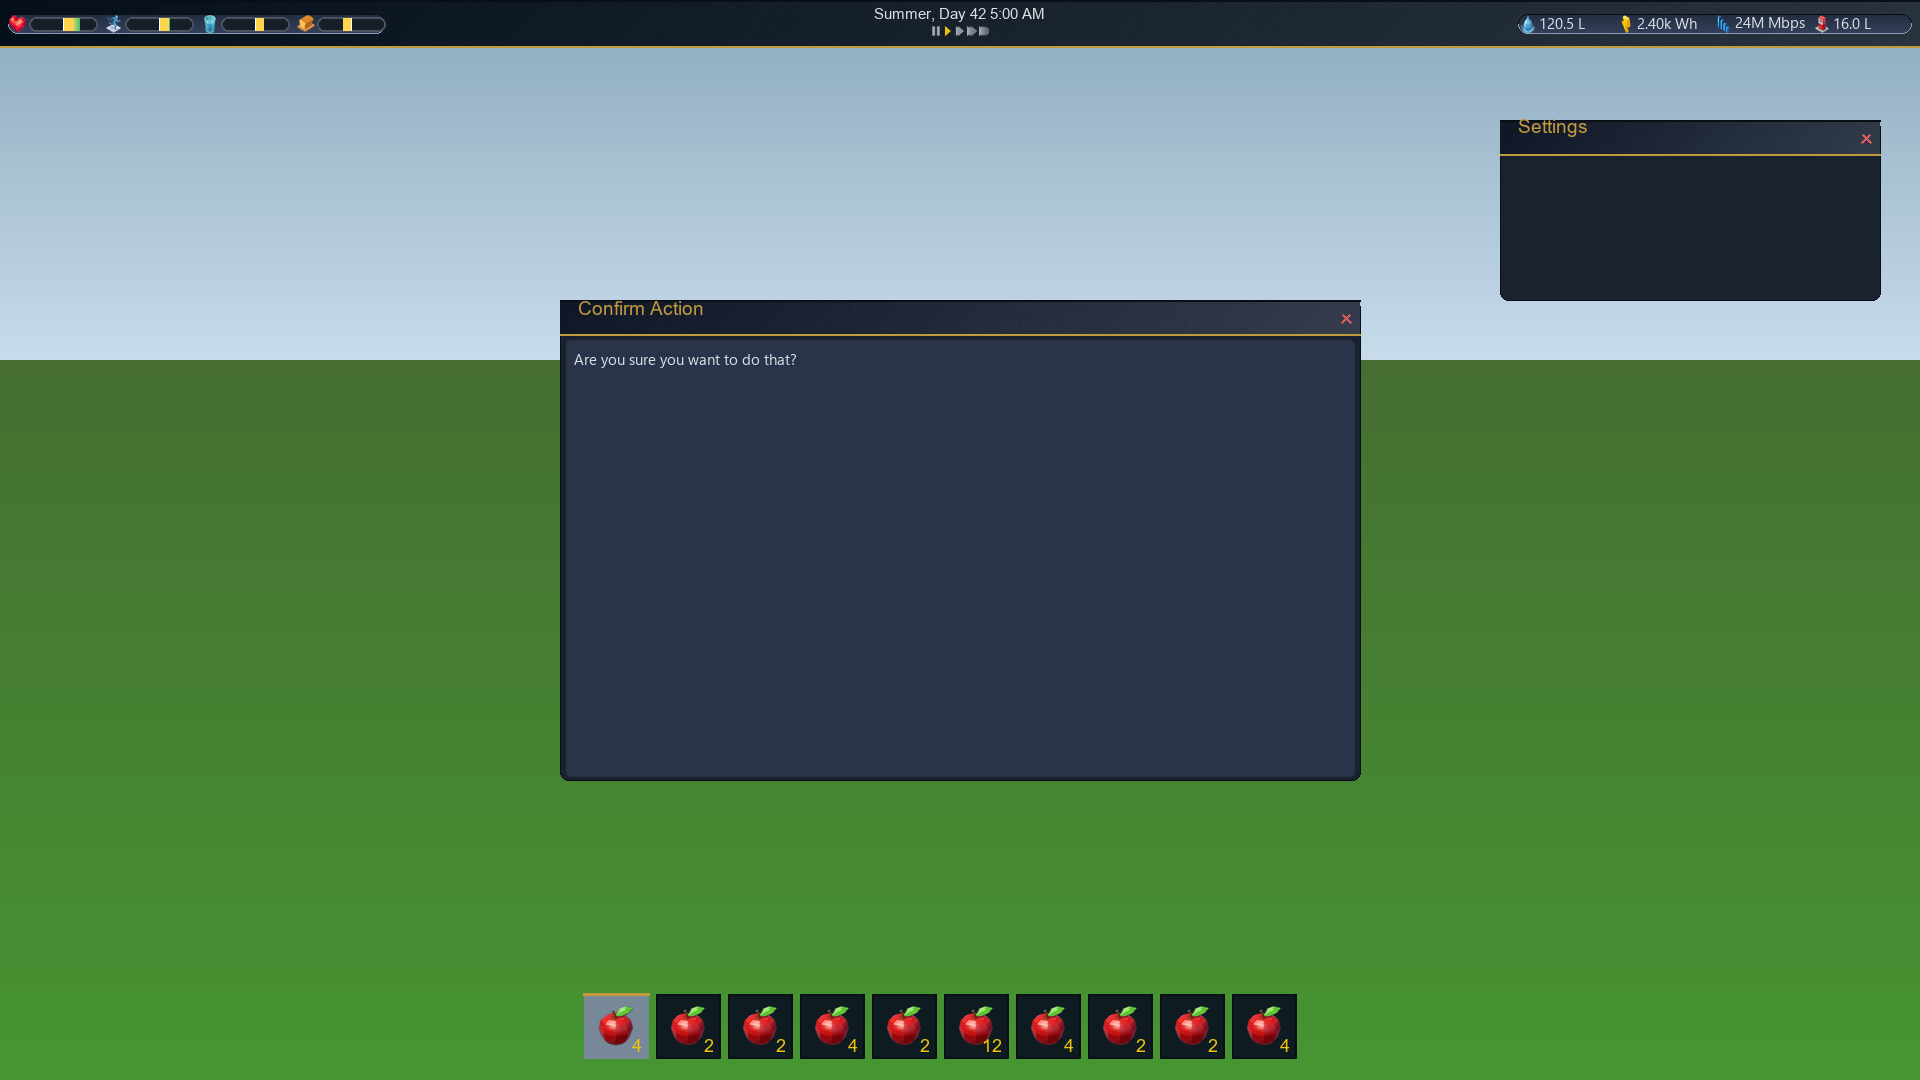
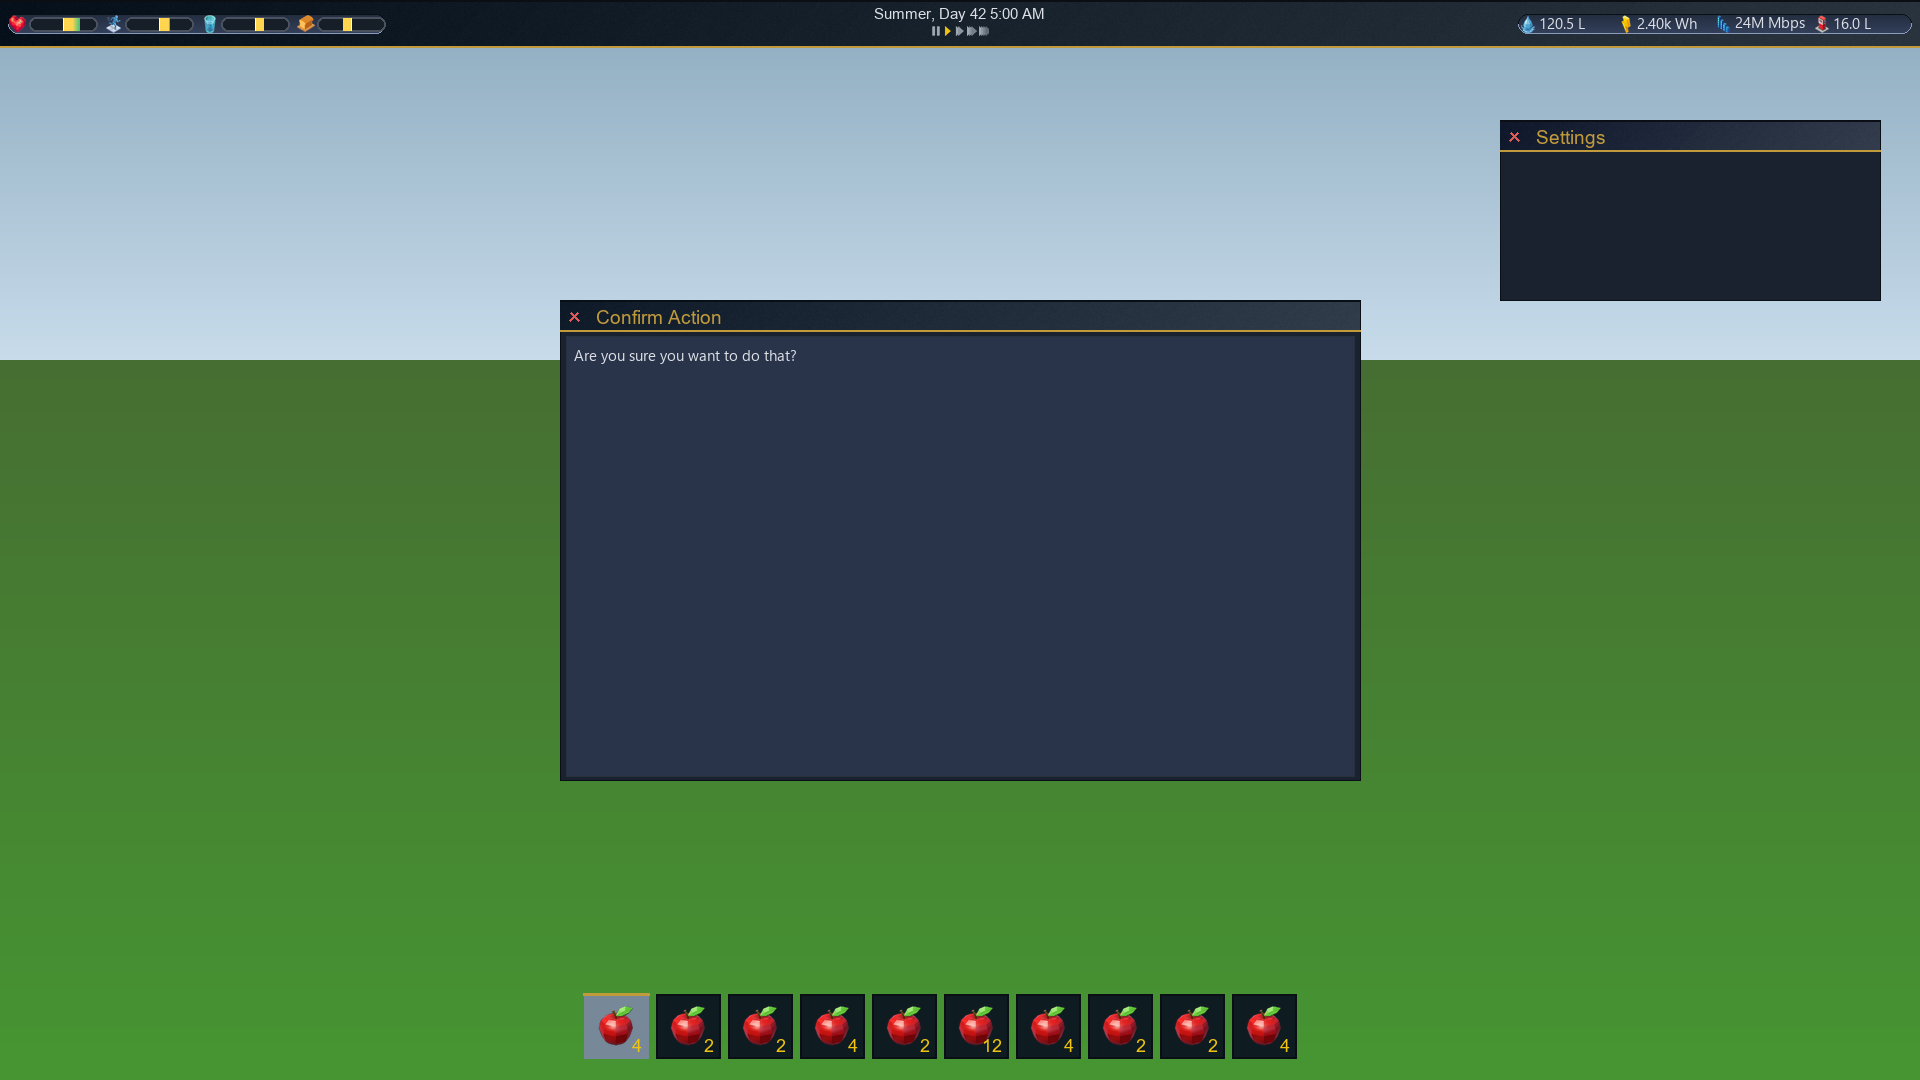
feat(hud_kit): window/modal square corners, 32px titles left-aligned past close-x

Changed region(s): [[0.2812, 0.275, 0.7188, 0.3361], [0.7812, 0.0917, 0.9688, 0.1528]]

diff --git a/assets/hud_kit/runtime/render.py b/assets/hud_kit/runtime/render.py
@@ -505,19 +505,18 @@ def render_window(canvas: Image.Image, x: int, y: int, w: int, h: int,
     The header reuses the metallic+noisy band style so it sits in the
     same visual family as the HUD's top status bar.
     """
-    # Window body (rounded rect with dark face).
+    # Window body (square rect with dark face).
     draw = ImageDraw.Draw(canvas)
-    radius = max(4, m.px(8))
     body_color = _hex_to_rgb(body_hex)
     bord_color = _hex_to_rgb(border_hex)
-    draw.rounded_rectangle(
+    draw.rectangle(
         [int(x), int(y), int(x + w), int(y + h)],
-        radius=radius, fill=body_color, outline=bord_color, width=1,
+        fill=body_color, outline=bord_color, width=1,
     )
     # Header band sits at the top of the body, hugging its edges (no
     # extra inset padding around the header so the title can use the
     # full header height).
-    header_h_px = m.px(36)
+    header_h_px = m.px(32)
     hx = int(x)
     hy = int(y)
     hw = int(w)
@@ -528,18 +527,29 @@ def render_window(canvas: Image.Image, x: int, y: int, w: int, h: int,
                        highlight_hex="#c19a3c",
                        seed=hash(title) & 0xFFFFFFFF)
     # Title text. Larger font so it fills the header height nicely.
-    font_size = max(8, int(header_h_px * 0.55))
+    font_size = max(8, int(header_h_px * 0.60))
     font = _hud_font(font_size, weight="bold")
-    bbox = draw.textbbox((0, 0), title, font=font)
-    text_w = bbox[2] - bbox[0]
-    text_h = bbox[3] - bbox[1]
-    ascent, _ = font.getmetrics()
-    tx = hx + hh // 2
-    ty = hy + (hh - text_h) // 2 - (ascent - bbox[1])
-    draw.text((tx, ty), title, fill=_hex_to_rgb(title_hex), font=font)
-    # Close x (right-aligned inside the header band).
+    ascent, descent = font.getmetrics()
+    bbox = font.getbbox(title)
+    bbox_h = bbox[3] - bbox[1]
+    # Title: left-aligned past the close-x slot, vertically centered.
+    # PIL's draw.text places (x, y) at the font's INTERNAL origin; the
+    # ink mass is rendered with a vertical offset that we calibrate
+    # empirically so the visible center aligns with the header
+    # midpoint.
+    target_center_y = hy + hh // 2
+    # Empirical offset between draw-text y and rendered ink center for
+    # the HUD font at bold weights: ink center sits ~half of
+    # (ascent - descent) below draw y.
+    center_offset = (ascent - descent) // 2
+    draw_y = target_center_y - center_offset - bbox[1]
+    tx = hx + m.px(36)
+    draw.text((tx - bbox[0], draw_y), title,
+              fill=_hex_to_rgb(title_hex), font=font)
+    # Close x: anchored at the LEFT side of the header band (just
+    # inside the left edge, vertically centered).
     if show_close:
-        cx_x = hx + hw - m.px(14)
+        cx_x = hx + m.px(14)
         cx_y = hy + hh // 2
         # Two strokes to form an X.
         s = m.px(4)
@@ -559,19 +569,20 @@ def render_modal(canvas: Image.Image, x: int, y: int, w: int, h: int,
     """Render a modal dialog: same window shell + close x, then a body
     placeholder block where real widgets would mount.
     """
+    hh = m.px(32)
     render_window(canvas, x, y, w, h, title, m,
                   show_close=True, body_hex=body_hex,
                   border_hex=border_hex)
     # Body content area = below the header (slightly lighter than the
     # body rect to read as the window's working area).
     body_x = int(x + 6)
-    body_y = int(y + m.px(40))
+    body_y = int(y + hh + 4)
     body_w = int(w - 12)
-    body_h = int(h - m.px(44))
+    body_h = int(h - hh - 8)
     draw = ImageDraw.Draw(canvas)
-    draw.rounded_rectangle(
+    draw.rectangle(
         [body_x, body_y, body_x + body_w, body_y + body_h],
-        radius=4, fill=_hex_to_rgb("#29344a"),
+        fill=_hex_to_rgb("#29344a"),
         outline=_hex_to_rgb("#28323f"), width=1,
     )
     # Mockup body text.
